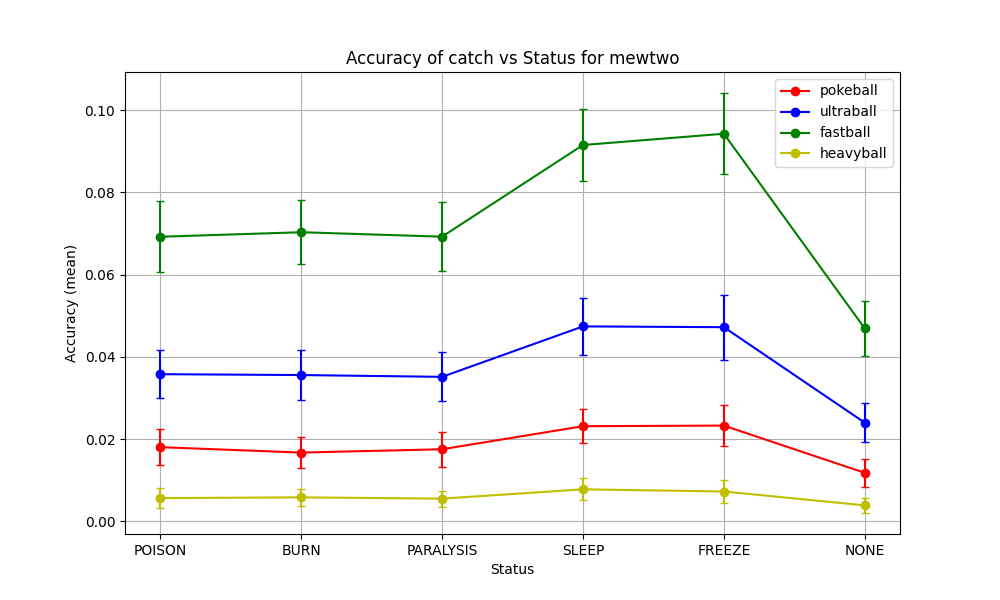
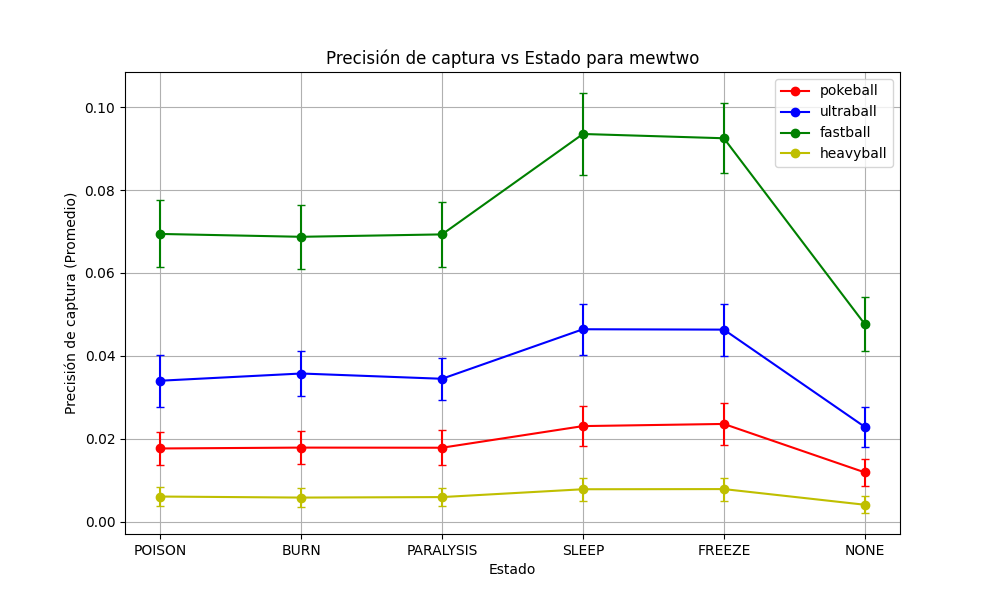
changed language for the graphs

diff --git a/2a2b.py b/2a2b.py
@@ -49,9 +49,9 @@ def analyze_health_and_capture(factory, pokeballs, pokemon_name):
         plt.plot(pokeball_df["status"], pokeball_df["mean"], color=colors[pokeball], label=pokeball, marker='o')
         plt.errorbar(pokeball_df["status"], pokeball_df["mean"], pokeball_df["std_dev"], fmt='none', color=colors[pokeball], capsize=3)
 
-    plt.title(f"Accuracy of catch vs Status for {pokemon_name}")
-    plt.xlabel("Status")
-    plt.ylabel("Accuracy (mean)")
+    plt.title(f"Precisión de captura vs Estado para {pokemon_name}")
+    plt.xlabel("Estado")
+    plt.ylabel("Precisión de captura (Promedio)")
     plt.grid(True)
     plt.legend()
     plt.savefig(f"./graphs/health_capture_{pokemon_name}.png")
@@ -89,9 +89,9 @@ def analyze_hp_and_capture(factory, pokeballs, pokemon_name):
         plt.plot(pokeball_df["hp"], pokeball_df["mean"], color=colors[pokeball], label=pokeball, marker='o')
         plt.errorbar(pokeball_df["hp"], pokeball_df["mean"], pokeball_df["std_dev"], fmt='none', color=colors[pokeball], capsize=3)
 
-    plt.title(f"Accuracy of catch vs Health Percentage (HP) for {pokemon_name}")
+    plt.title(f"Precisión de captura vs Porcentaje de Salud (HP) for {pokemon_name}")
     plt.xlabel("HP %")
-    plt.ylabel("Accuracy (Mean)")
+    plt.ylabel("Precisión de captura (Promedio)")
     plt.grid(True)
     plt.legend()
     plt.savefig(f"./graphs/hp_capture_{pokemon_name}.png")
